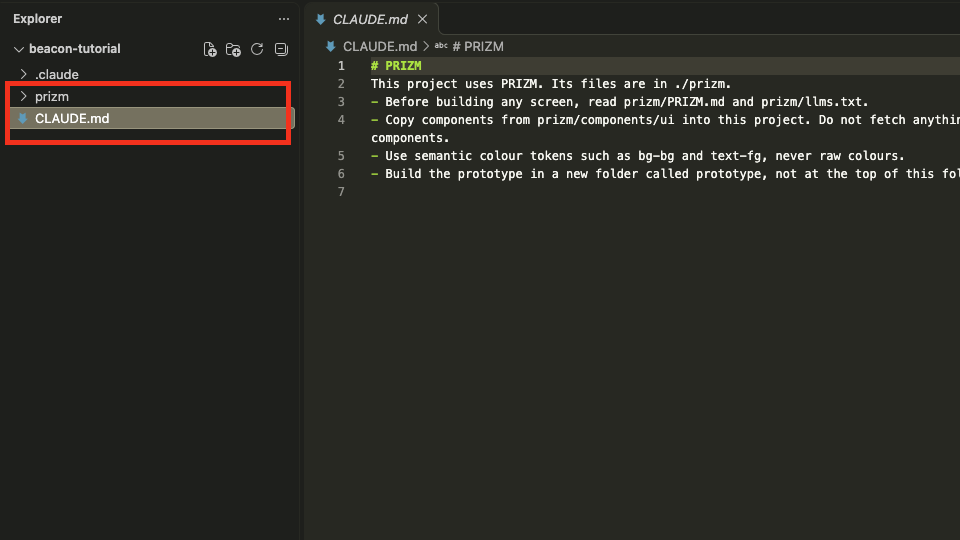
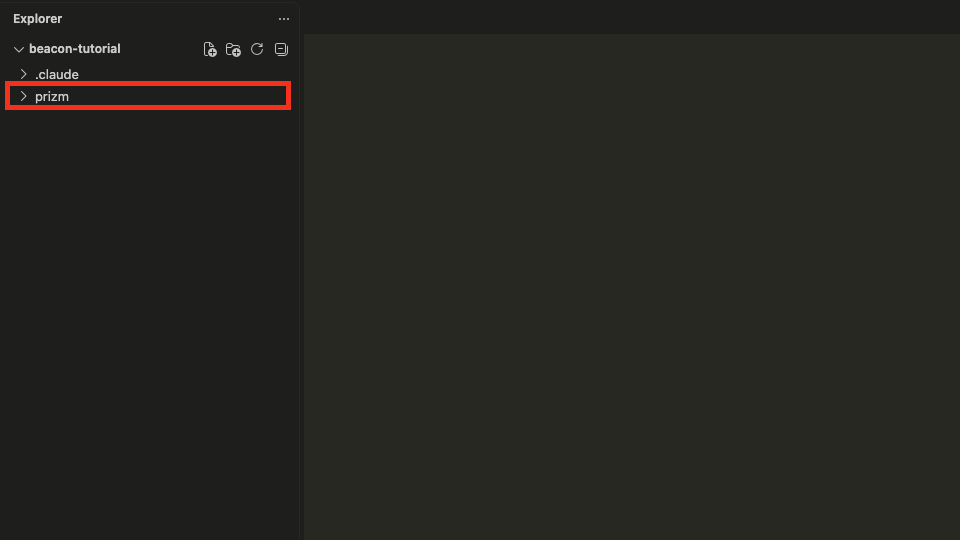
Refine the setup instructions in the Confluence tutorial

Changed region(s): [[0.3125, 0.0296, 1.0, 0.3556], [0.0, 0.1778, 0.3125, 0.2667]]

diff --git a/portal/components/portal/project-choice.tsx b/portal/components/portal/project-choice.tsx
@@ -20,13 +20,12 @@ import { cn } from "@/lib/utils";
 /**
  * Which project the reader is following: their own, or the SKYPROTECT demo.
  *
- * The page starts on "own". Once the reader picks the demo, that is remembered in this browser.
+ * The page starts on "demo". Once the reader picks their own project, that is remembered in this browser.
  * The demo is written as if the whole tutorial uses it, so its content shows without a label.
  *
  * Project-specific text is resolved on the server (see `lib/remark-project.ts`), once per project.
  * Both versions are in the page, and the `data-project` attribute on `<html>` decides which one
- * shows. A small script in the root layout sets it before first paint, so a returning demo reader
- * never sees the "own" version flash.
+ * shows. A small script in the root layout sets it before first paint, so the "demo" version shows from the first paint.
  */
 export type { Project };
 
@@ -36,7 +35,7 @@ interface ProjectChoice {
 }
 
 const ProjectChoiceContext = createContext<ProjectChoice>({
-  project: "own",
+  project: "demo",
   setProject: () => {},
 });
 
@@ -45,7 +44,7 @@ export function useProjectChoice() {
 }
 
 export function ProjectChoiceProvider({ children }: { children: ReactNode }) {
-  const [project, setProjectState] = useState<Project>("own");
+  const [project, setProjectState] = useState<Project>("demo");
 
   // Read the saved choice after hydration so the server and first client render match.
   useEffect(() => {
@@ -80,16 +79,16 @@ export function ProjectChoiceProvider({ children }: { children: ReactNode }) {
 
 const OPTIONS: { value: Project; label: string; title: string; description: string }[] = [
   {
-    value: "own",
-    label: "Option A",
-    title: "My own project",
-    description: "Follow the tutorial with a programme of your own.",
-  },
-  {
     value: "demo",
-    label: "Option B",
+    label: "Option A",
     title: "The demo project",
     description: "Practise with SKYPROTECT, a made-up drone-defence programme. Step 5 sets it up.",
+  },
+  {
+    value: "own",
+    label: "Option B",
+    title: "My own project",
+    description: "Follow the tutorial with a programme of your own.",
   },
 ];
 

diff --git a/portal/lib/project-storage.ts b/portal/lib/project-storage.ts
@@ -1,4 +1,4 @@
 export const STORAGE_KEY = "beacon-walkthrough-project";
 
-/** Runs before first paint (from the root layout) and sets `data-project` on `<html>`. */
-export const RESTORE_PROJECT = `try{var p=localStorage.getItem(${JSON.stringify(STORAGE_KEY)});if(p==="own"||p==="demo")document.documentElement.setAttribute("data-project",p)}catch(e){}`;
+/** Runs before first paint (from the root layout) and sets `data-project` on `<html>`: the saved choice, or "demo" by default. */
+export const RESTORE_PROJECT = `try{var p=localStorage.getItem(${JSON.stringify(STORAGE_KEY)});if(p!=="own")p="demo";document.documentElement.setAttribute("data-project",p)}catch(e){document.documentElement.setAttribute("data-project","demo")}`;

diff --git a/portal/components/portal/tutorial.tsx b/portal/components/portal/tutorial.tsx
@@ -410,8 +410,8 @@ function ProjectProse({
   if (!PROJECT_MARKUP.test(children)) return render("own");
   return (
     <>
-      <div className="[[data-project=demo]_&]:hidden">{render("own")}</div>
-      <div className="hidden [[data-project=demo]_&]:block">{render("demo")}</div>
+      <div className="hidden [[data-project=own]_&]:block">{render("own")}</div>
+      <div className="[[data-project=own]_&]:hidden">{render("demo")}</div>
     </>
   );
 }
